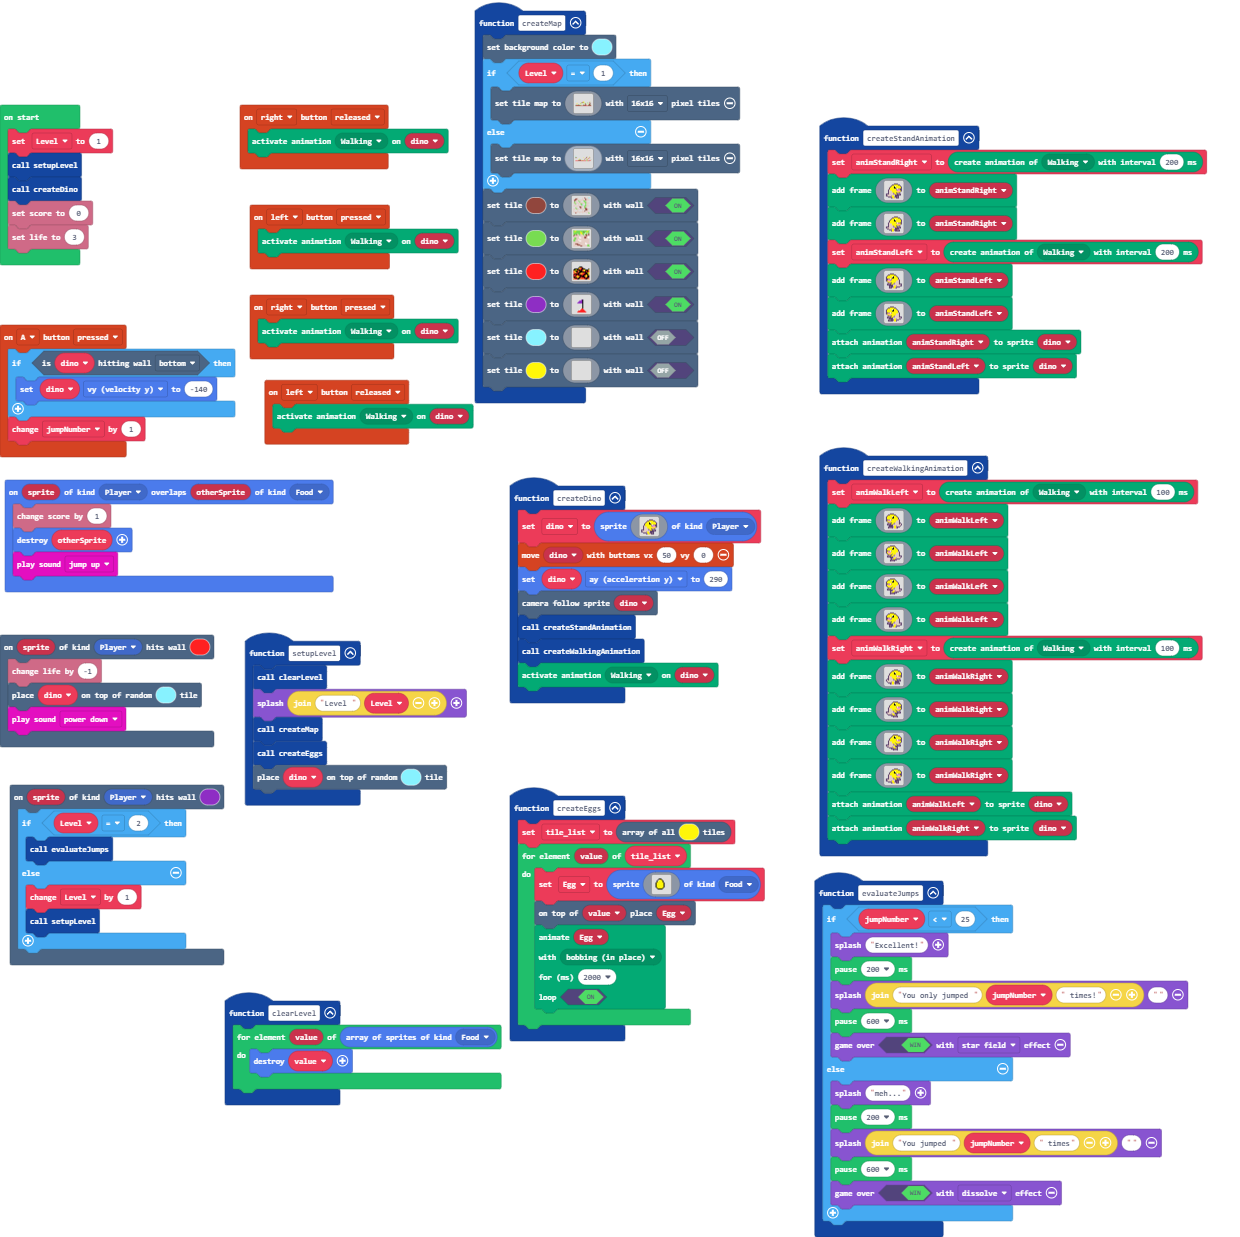
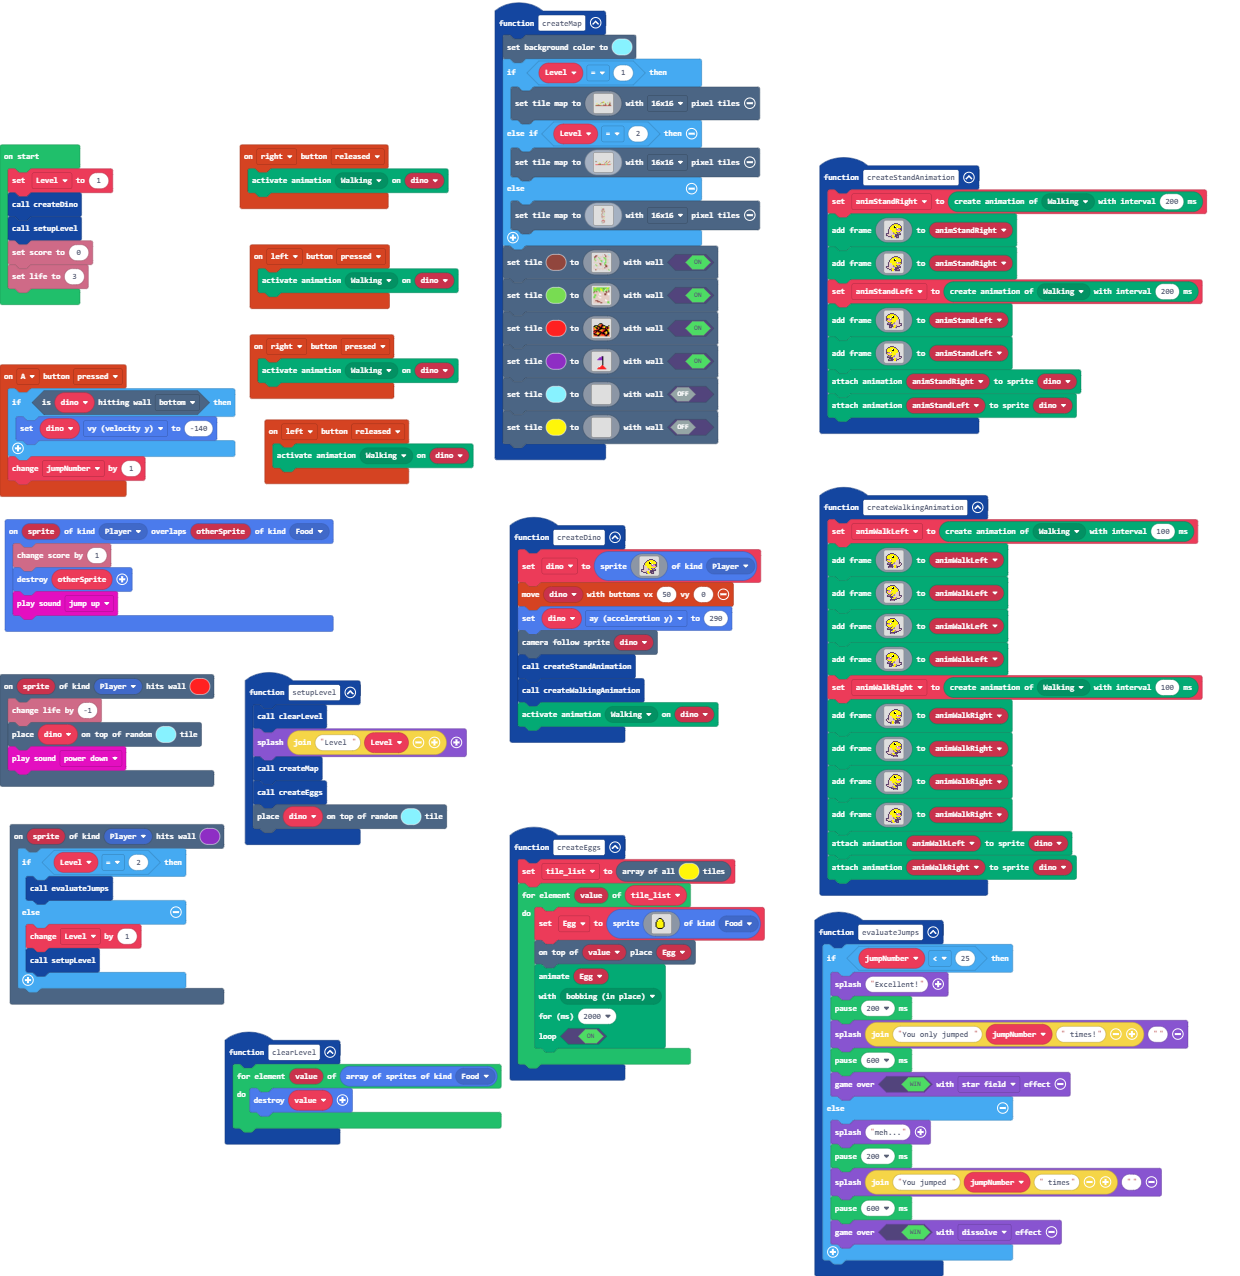
added another level

diff --git a/main.ts b/main.ts
@@ -103,11 +103,11 @@ function createMap () {
             ....5.....77......5.7........ee.
             ..5.......55........e...5..72a..
             .................7..e7.....2ee..
-            .a.7.777.....5..7e..ee....77ee7.
+            ...7.777.....5..7e..ee....77ee7.
             772e2eee2777....ee22ee...7eeeee.
             eeeeeeeeeeee22eeeeeeee222eeeeee2
             `, TileScale.Sixteen)
-    } else {
+    } else if (Level == 2) {
         scene.setTileMap(img`
             99..............................
             .......................e....5...
@@ -116,9 +116,60 @@ function createMap () {
             .....................e.....2....
             ........5...........e.5..72.....
             ..................e2....2.......
-            ......5.727......7....77.......7
+            ......5.727......7.7..77.......7
             ......e.eee...5........5....a.2.
-            22222ee2eee222ee22222e77222272..
+            22222ee2eee222ee22227e77222272..
+            `, TileScale.Sixteen)
+    } else {
+        scene.setTileMap(img`
+            5.........
+            7.........
+            ....7.....
+            ..7...ee..
+            ....2.....
+            e..ee222..
+            ...eaeeee.
+            ..7e......
+            ...e......
+            e..e77277.
+            e........2
+            ee.......e
+            .ee2ee..5e
+            .5......ee
+            .........e
+            ..eeee....
+            ..........
+            .........5
+            .....e...7
+            5eeee.....
+            ee........
+            e......777
+            ..........
+            ..........
+            .5ee......
+            2e......77
+            e.........
+            ..eee.22..
+            .e5..e..22
+            ..........
+            ..........
+            .ee2e..5..
+            .......7..
+            .........5
+            .........7
+            ......5...
+            ......e...
+            ...e......
+            ..........
+            ..22222222
+            .eeeeeeeee
+            ........ee
+            .........e
+            eee.....5e
+            ........ee
+            ......2ee.
+            99.eee....
+            777.......
             `, TileScale.Sixteen)
     }
     scene.setTile(14, img`
@@ -502,7 +553,7 @@ let animStandRight: animation.Animation = null
 let dino: Sprite = null
 let Level = 0
 Level = 1
-setupLevel()
 createDino()
+setupLevel()
 info.setScore(0)
 info.setLife(3)
